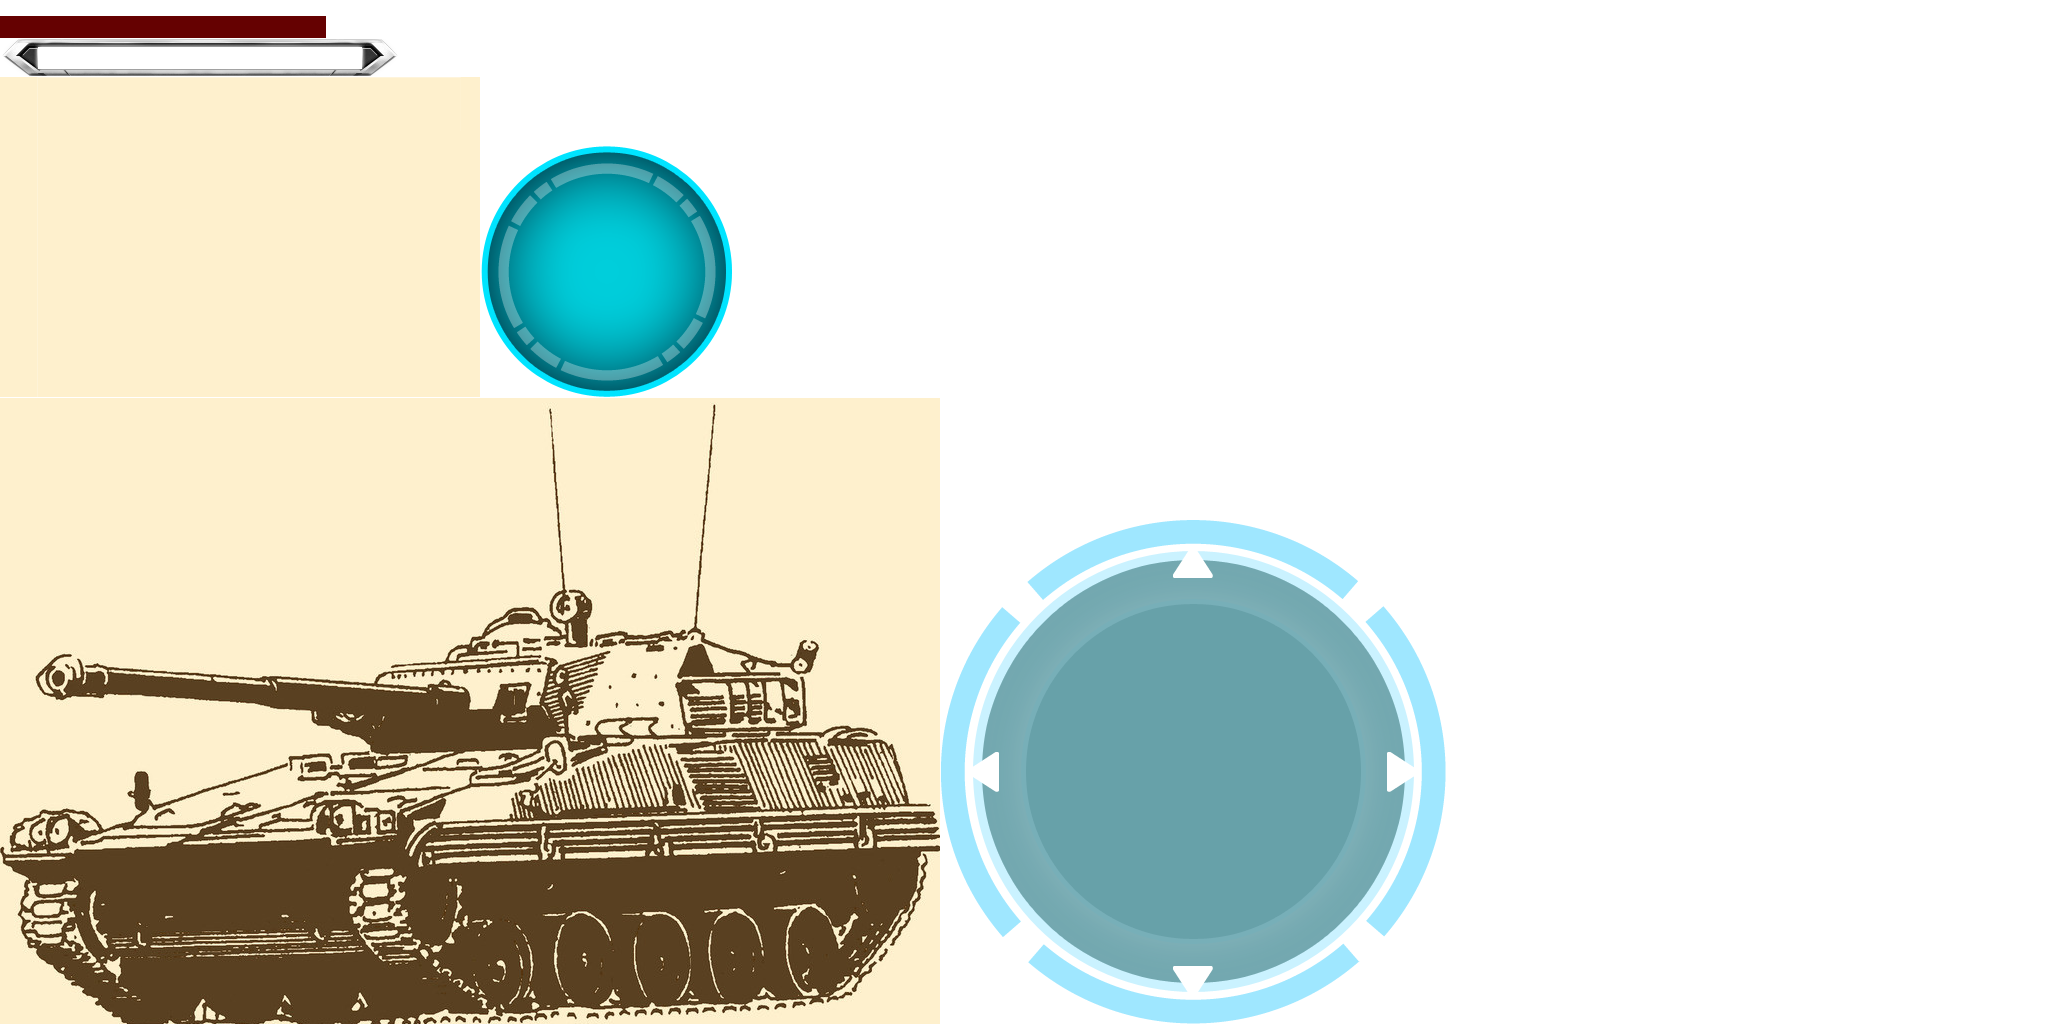
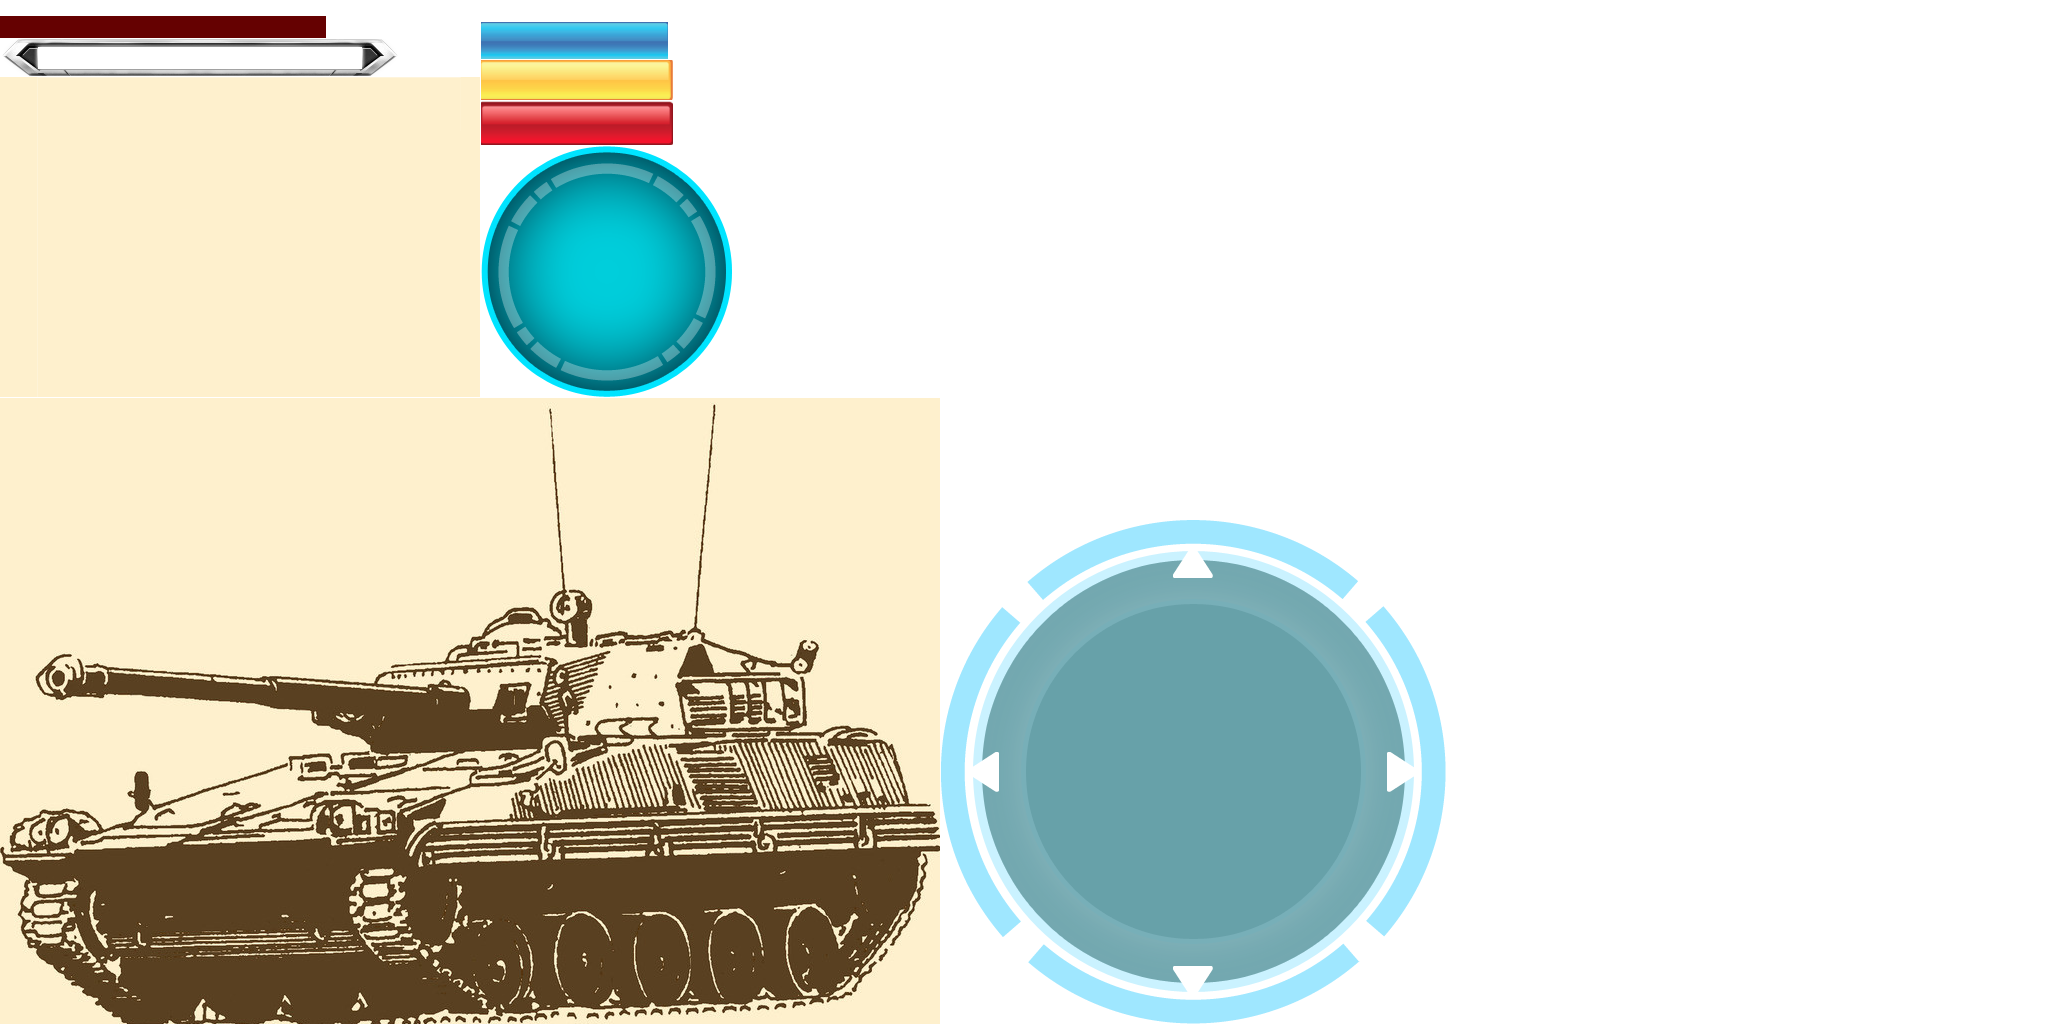
加入了  导弹  武器

Changed region(s): [[0.2188, 0.0, 0.3438, 0.1562]]

diff --git a/code/Assets/Script/Controller/WeaponFire.cs b/code/Assets/Script/Controller/WeaponFire.cs
@@ -1,0 +1,23 @@
+using UnityEngine;
+using System.Collections;
+
+public class WeaponFire : MonoBehaviour {
+
+	public GameObject Weapon;
+	
+	
+	// Use this for initialization
+	void Start () {
+	
+	}
+	
+	// Update is called once per frame
+	void Update () {
+	
+	}
+
+	void OnClick()
+	{			
+		Weapon.GetComponent<WeaponLauncher>().Shoot();
+	}
+}
